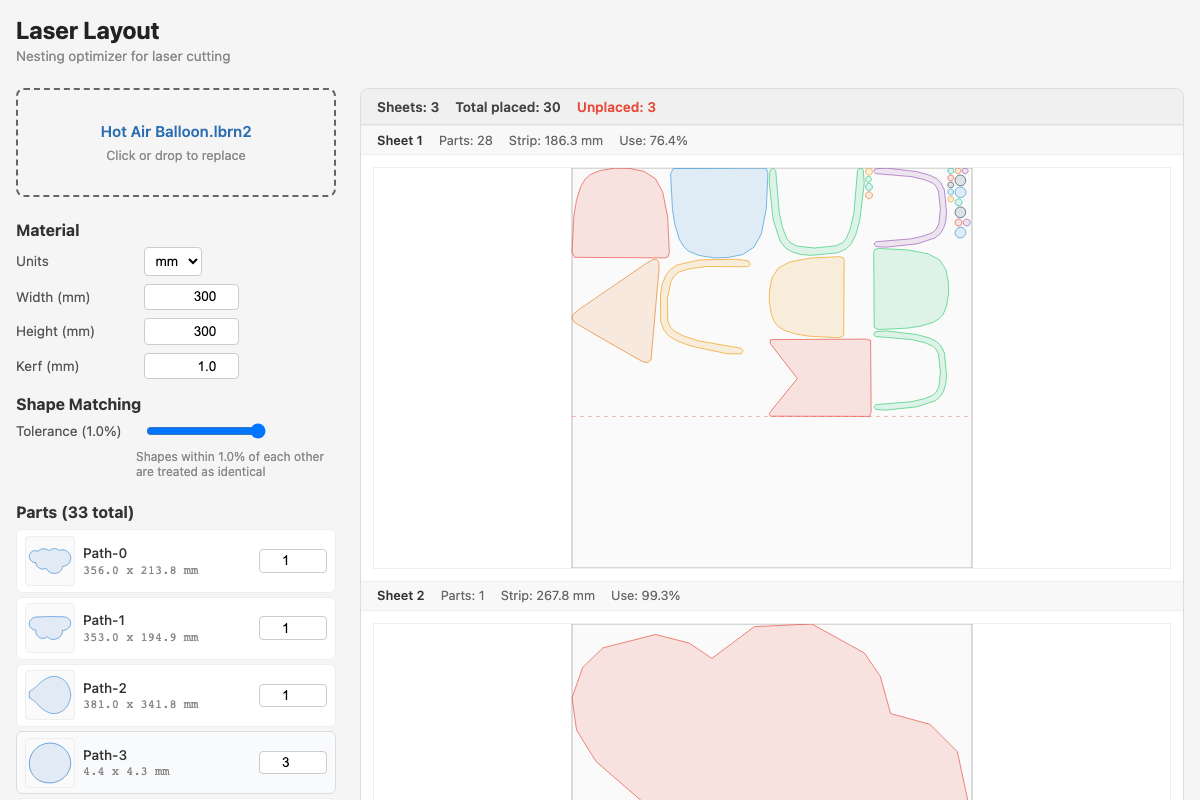
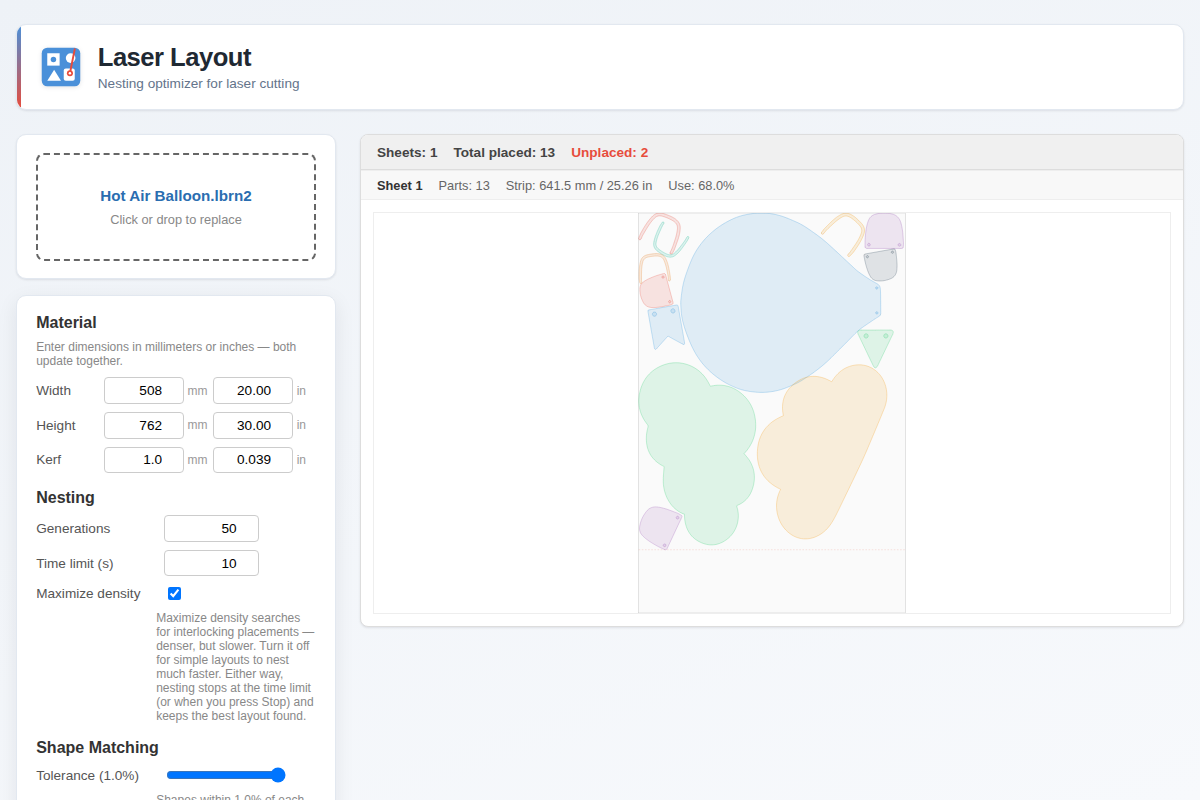
docs: regenerate README screenshot from current main
Refresh static/screenshot.png against the post-merge UI (multi-start
nesting + orientation rescue, #37), capturing the final converged
layout rather than a mid-run frame.

Update the screenshot helper to wait for parsing and for nesting to
finish, and cap the in-app time limit so the run converges quickly.

Claude-Session: https://claude.ai/code/session_01LfZJw64vVddLibQTpFgW3J

diff --git a/e2e/screenshot.spec.ts b/e2e/screenshot.spec.ts
@@ -2,22 +2,38 @@ import { test } from '@playwright/test';
 import path from 'path';
 
 test('take screenshot of nested layout', async ({ page }) => {
+  // Nesting runs to the time limit we set below, plus build/parse overhead.
+  test.setTimeout(120000);
+
   await page.setViewportSize({ width: 1200, height: 800 });
   await page.goto('http://localhost:9876');
   await page.waitForTimeout(1000);
 
   const fileInput = page.locator('input[type="file"]');
   await fileInput.setInputFiles(path.resolve('test-fixtures/Hot Air Balloon.lbrn2'));
-  await page.waitForTimeout(1000);
+
+  // Wait for the file to be parsed — the "Nest Parts" button enables once
+  // parts are available.
+  const nestBtn = page.getByRole('button', { name: 'Nest Parts' });
+  await nestBtn.waitFor({ timeout: 30000 });
+  await page.locator('button.nest-btn:not([disabled])').waitFor({ timeout: 30000 });
+
+  // Cap the nesting time so the run converges quickly for the screenshot.
+  const timeLimit = page.locator('#time-budget');
+  await timeLimit.fill('10');
+  await timeLimit.blur();
 
   // Click "Nest Parts" button
-  const nestBtn = page.getByRole('button', { name: 'Nest Parts' });
   await nestBtn.scrollIntoViewIfNeeded();
   await nestBtn.click();
 
-  // Wait for nesting to finish — the button text changes or an SVG appears
+  // Wait for the layout to appear, then for nesting to fully finish so the
+  // screenshot shows the final, densest result rather than a mid-run frame.
+  // While nesting the button reads "Nesting...", and it returns to enabled
+  // "Nest Parts" once the run converges or hits the time limit.
   await page.locator('.layout-svg').first().waitFor({ timeout: 30000 });
-  await page.waitForTimeout(2000);
+  await page.locator('button.nest-btn:not([disabled])').waitFor({ timeout: 90000 });
+  await page.waitForTimeout(1000);
 
   // Scroll to top to capture the full layout
   await page.evaluate(() => window.scrollTo(0, 0));